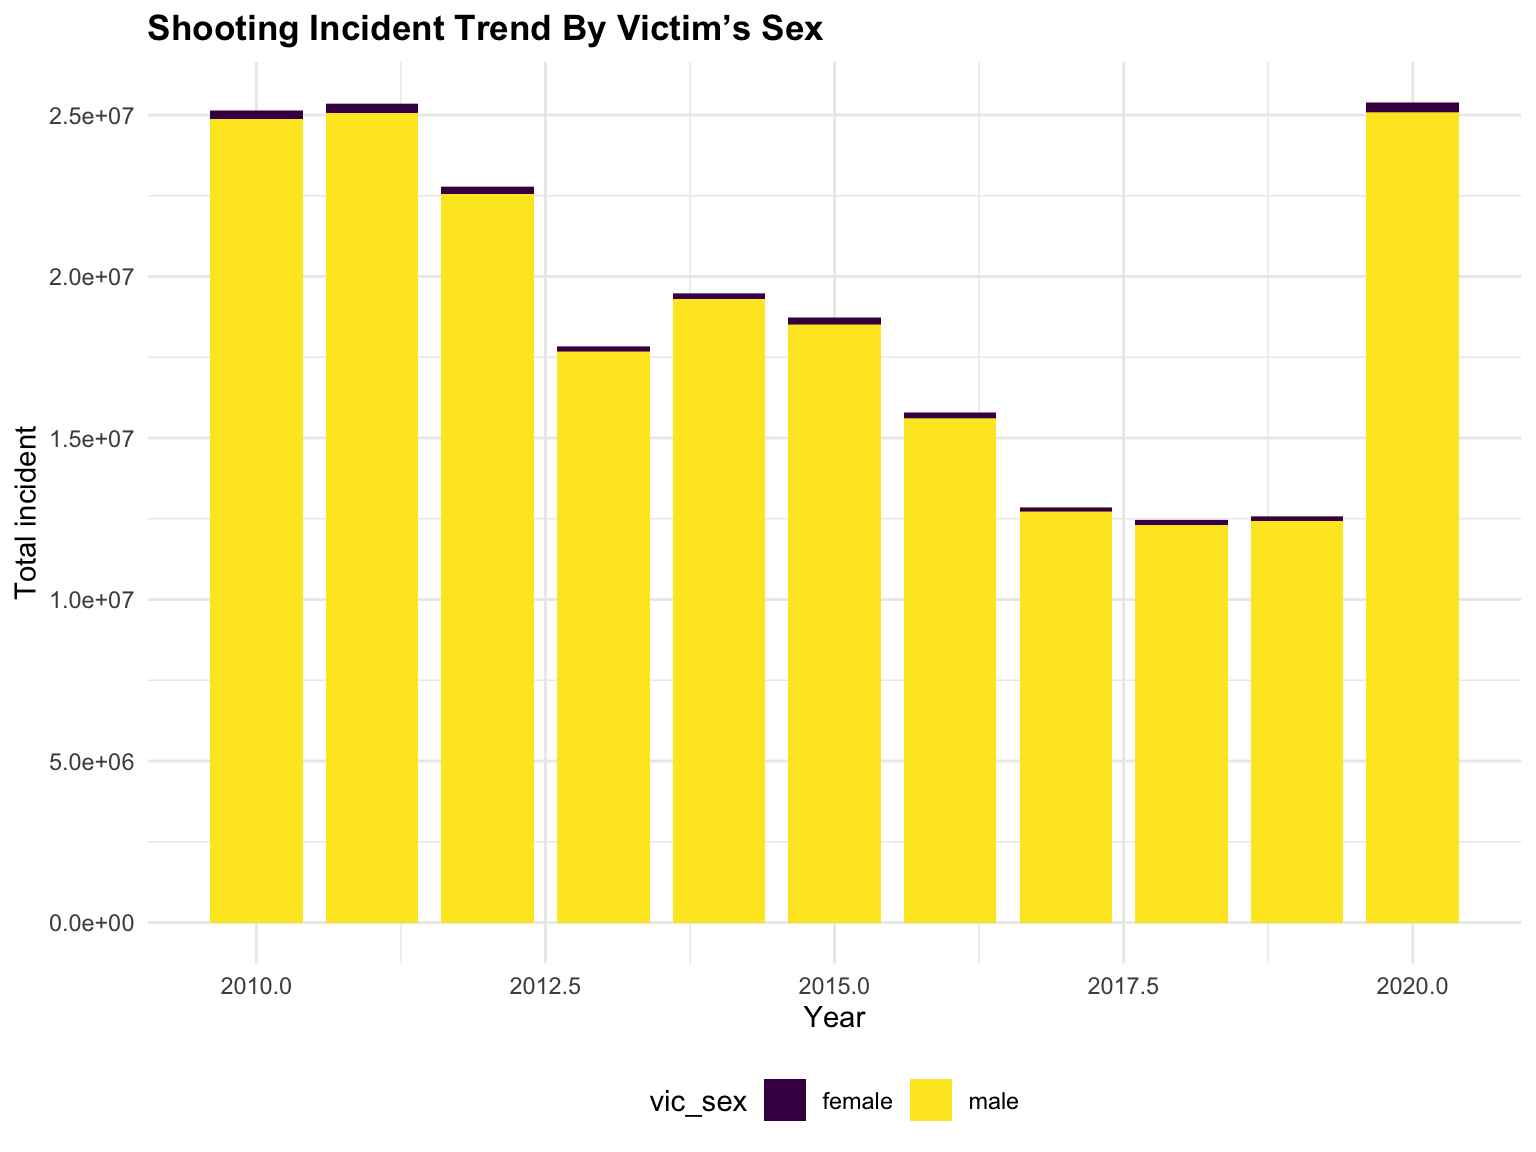
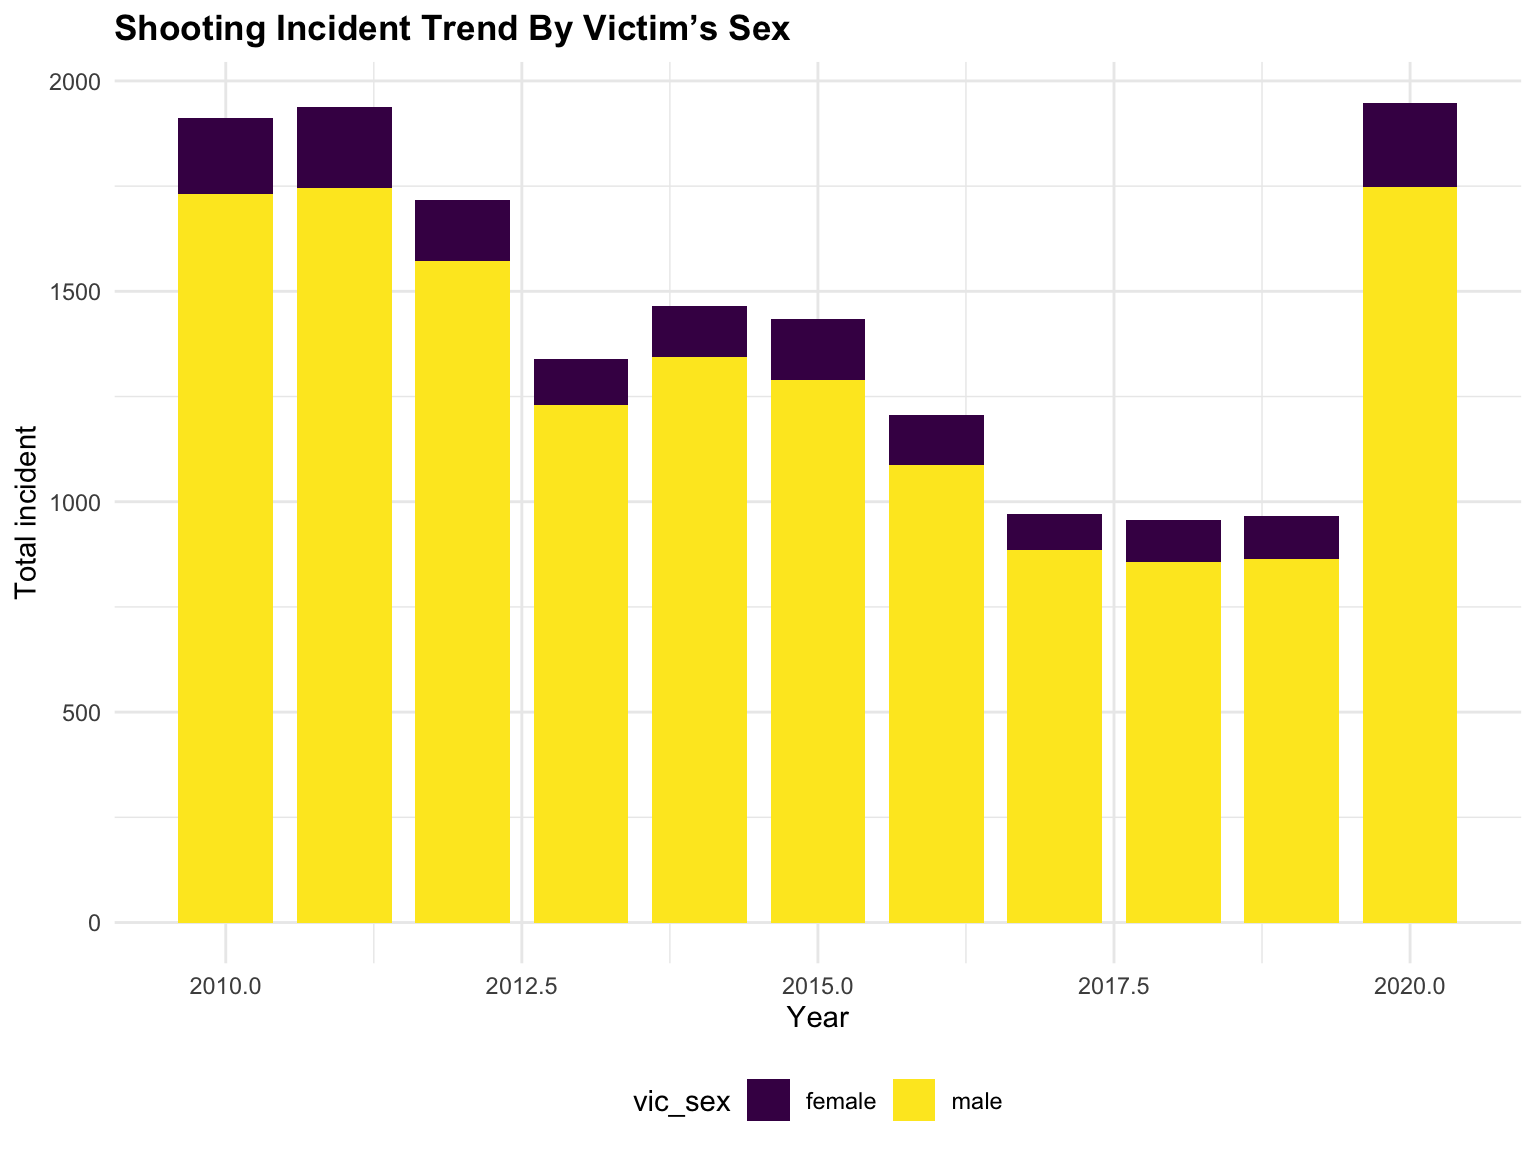
fix the graph input problem

diff --git a/analysis.html b/analysis.html
@@ -390,16 +390,17 @@ year_plot</code></pre>
   data_hist %&gt;%
   filter(year &gt;= 2010,
          vic_race %in% c(&quot;black&quot;,&quot;white hispanic&quot;,&quot;black hispanic&quot;,&quot;white&quot;,&quot;asian / pacific islander&quot;,&quot;white&quot;)) %&gt;% 
-  group_by(year,vic_race) %&gt;%
-  mutate(n = n()) %&gt;%
-  ggplot(aes(x = year, y = n, fill = vic_race)) + 
-  geom_bar(width = 0.8, stat = &quot;identity&quot;)+
+  group_by(year, vic_race) %&gt;%
+  summarise(n = n()) %&gt;%
+  ggplot(aes(x = year, y = n, fill= vic_race))+ 
+  geom_bar(width = 0.8, stat = &quot;identity&quot;) +
   labs(x = &quot;Year&quot;,
        y = &quot;Total incident&quot;,
-       title = &quot;Shooting Incident Trend By Victim’s Race&quot;)
-       
-vic_race_plot</code></pre>
+       title = &quot;Shooting Incident Trend By Victim’s Race&quot;)</code></pre>
+<pre><code>## `summarise()` has grouped output by &#39;year&#39;. You can override using the `.groups` argument.</code></pre>
+<pre class="r"><code>vic_race_plot</code></pre>
 <p><img src="analysis_files/figure-html/unnamed-chunk-5-1.png" width="90%" /></p>
+<p>the majority of victim are <strong>black</strong>. In 2010, 2011 and 2014, white people are the second highest number of victim. the rest of years, white hispanic are the second most in victim</p>
 </div>
 </div>
 <div id="victim" class="section level2">
@@ -410,36 +411,16 @@ vic_race_plot</code></pre>
   data_hist %&gt;% 
   filter(year &gt;= 2010,
          vic_sex != &quot;unknown&quot;) %&gt;% 
-  group_by(vic_sex) %&gt;%
-  mutate(n = n()) %&gt;% 
+  group_by(year, vic_sex) %&gt;%
+  summarise(n = n()) %&gt;% 
   ggplot(aes(x = year, y = n, fill = vic_sex)) + 
   geom_bar(width = 0.8, stat = &quot;identity&quot;) +
   labs(x = &quot;Year&quot;,
        y = &quot;Total incident&quot;,
-       title = &quot;Shooting Incident Trend By Victim’s Sex&quot;)
-
-
-vic_sex_plot</code></pre>
+       title = &quot;Shooting Incident Trend By Victim’s Sex&quot;)</code></pre>
+<pre><code>## `summarise()` has grouped output by &#39;year&#39;. You can override using the `.groups` argument.</code></pre>
+<pre class="r"><code>vic_sex_plot</code></pre>
 <p><img src="analysis_files/figure-html/unnamed-chunk-6-1.png" width="90%" /></p>
-</div>
-<div id="total-shooting-incident-by-victims-race" class="section level3">
-<h3>2010-2020 total shooting incident by victim’s race</h3>
-<pre class="r"><code>vic_race_plot = 
-  data_hist %&gt;% 
-  filter(year &gt;= 2010,
-        vic_race != &quot;unknown&quot;) %&gt;% 
-  group_by(vic_race) %&gt;%
-  mutate(n = n()) %&gt;% 
-  ggplot(aes(x = year, y = n,fill = vic_race)) + 
-  geom_bar(width = 0.8, stat = &quot;identity&quot;) +
-
-  labs(x = &quot;Year&quot;,
-       y = &quot;Total incident&quot;,
-       title = &quot;Shooting Incident Trend By Victim’s Race&quot;
-       )
-
-vic_race_plot</code></pre>
-<p><img src="analysis_files/figure-html/unnamed-chunk-7-1.png" width="90%" /> the majority of victim are <strong>black</strong>. In 2010, 2011 and 2014, white people are the second highest number of victim. the rest of years, white hispanic are the second most in victim</p>
 </div>
 <div id="totalshooting-incident-by-victims-age-group" class="section level3">
 <h3>2010-2020 totalshooting incident by victim’s age group</h3>
@@ -450,7 +431,7 @@ vic_race_plot</code></pre>
          vic_age_group != &quot;UNKNOWN&quot;
          ) %&gt;% 
   group_by(vic_age_group, boro) %&gt;%
-  mutate(n = n()) %&gt;% 
+  summarise(n = n()) %&gt;% 
 
   ggplot(aes(x = boro, y = n, fill = vic_age_group)) + 
   geom_bar(width = 0.8, stat = &quot;identity&quot;)+
@@ -458,15 +439,16 @@ vic_race_plot</code></pre>
   labs(x = &quot;Year&quot;,
        y = &quot;Total incident&quot;,
        title = &quot;Shooting Incident Trend By Victim’s age&quot;
-       )
-vic_age_plot</code></pre>
-<p><img src="analysis_files/figure-html/unnamed-chunk-8-1.png" width="90%" /> victims age group, 2010-2015 age 18-25 are the major victim but less in 2016-2018</p>
+       )</code></pre>
+<pre><code>## `summarise()` has grouped output by &#39;vic_age_group&#39;. You can override using the `.groups` argument.</code></pre>
+<pre class="r"><code>vic_age_plot</code></pre>
+<p><img src="analysis_files/figure-html/unnamed-chunk-7-1.png" width="90%" /> victims age group, 2010-2015 age 18-25 are the major victim but less in 2016-2018</p>
 <p>##2010-2020 total shooting incident by boro</p>
 <pre class="r"><code>boro_plot = 
   data_hist %&gt;% 
   filter(year &gt;= 2010) %&gt;% 
   group_by(boro) %&gt;%
-  mutate(n = n()) %&gt;% 
+  summarise(n = n()) %&gt;% 
   ggplot(aes(x = boro, group = n)) + 
   geom_bar(position = &quot;dodge&quot;) +
   labs(x = &quot;Borough&quot;,
@@ -475,7 +457,7 @@ vic_age_plot</code></pre>
        )
 
 boro_plot</code></pre>
-<p><img src="analysis_files/figure-html/unnamed-chunk-9-1.png" width="90%" /></p>
+<p><img src="analysis_files/figure-html/unnamed-chunk-8-1.png" width="90%" /></p>
 <p>##2010-2020 total shooting incident by jurisdiction_code</p>
 <pre class="r"><code>jurisdiction_code_plot=
   data_hist %&gt;%
@@ -483,17 +465,16 @@ boro_plot</code></pre>
          vic_age_group != &quot;NA&quot;,
          vic_age_group != &quot;UNKNOWN&quot;) %&gt;% 
   group_by(jurisdiction_code, vic_age_group) %&gt;%
-  mutate(n = n()) %&gt;% 
+  summarise(n = n()) %&gt;% 
   ggplot(aes(x = vic_age_group, y = n, fill = jurisdiction_code)) + 
   geom_bar(width = 0.8, stat = &quot;identity&quot;) +
   labs(x = &quot;Age group of victims&quot;,
        y = &quot;Total incident&quot;,
        title = &quot;Shooting Incident By Location Of The Incident&quot;
-       )
-
-  
-jurisdiction_code_plot</code></pre>
-<p><img src="analysis_files/figure-html/unnamed-chunk-10-1.png" width="90%" /></p>
+       )</code></pre>
+<pre><code>## `summarise()` has grouped output by &#39;jurisdiction_code&#39;. You can override using the `.groups` argument.</code></pre>
+<pre class="r"><code>jurisdiction_code_plot</code></pre>
+<p><img src="analysis_files/figure-html/unnamed-chunk-9-1.png" width="90%" /></p>
 <p>##2010-2020 total shooting incident by hour in a day</p>
 <pre class="r"><code>incident_by_hour =
   data_hist %&gt;%
@@ -509,7 +490,7 @@ jurisdiction_code_plot</code></pre>
        )
   
 incident_by_hour</code></pre>
-<p><img src="analysis_files/figure-html/unnamed-chunk-11-1.png" width="90%" /></p>
+<p><img src="analysis_files/figure-html/unnamed-chunk-10-1.png" width="90%" /></p>
 <p>Most shooting incident happened at <strong>patrol</strong>, then is house.</p>
 <p><strong>brooklyn</strong> has most shooting incident, then is bronx. Staten island has least shooting incident since it dose not have much population</p>
 <pre class="r"><code>education_plot = 
@@ -522,7 +503,7 @@ incident_by_hour</code></pre>
     y = &quot;Percent&quot;) 
 
 education_plot</code></pre>
-<p><img src="analysis_files/figure-html/unnamed-chunk-12-1.png" width="90%" /></p>
+<p><img src="analysis_files/figure-html/unnamed-chunk-11-1.png" width="90%" /></p>
 <p>overall, all borough show increase. in 2015, brooklyn that has most shooting incident boro has a notability increase slope.</p>
 </div>
 </div>
